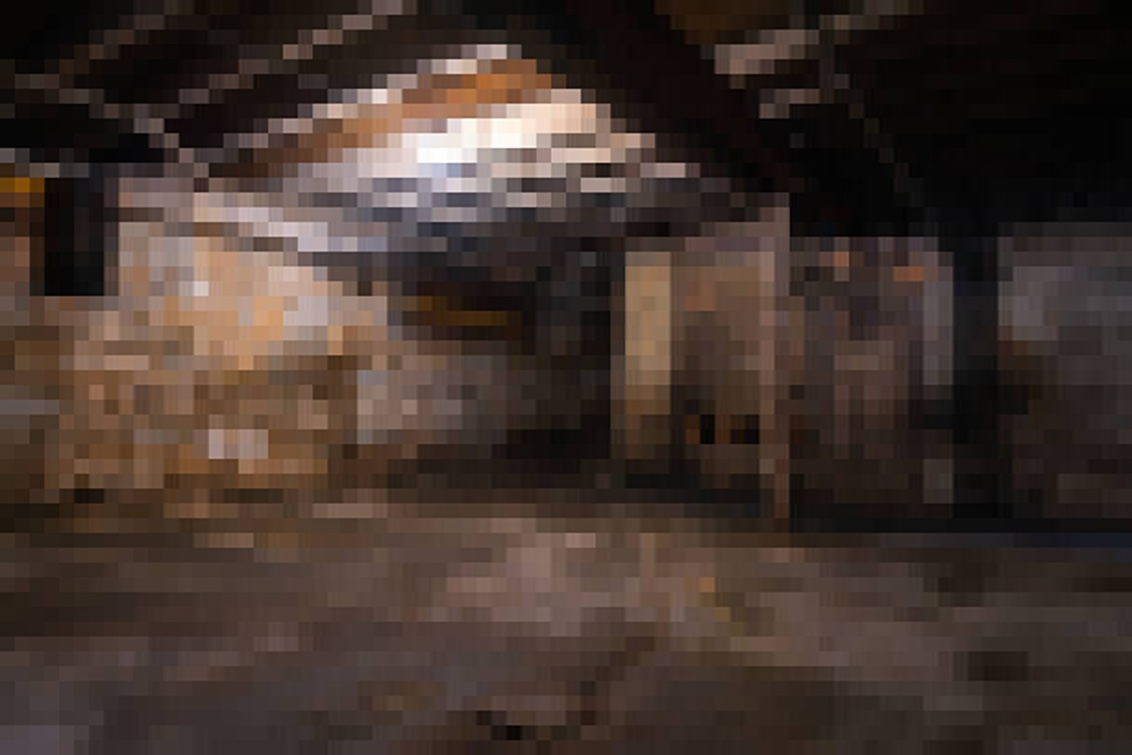
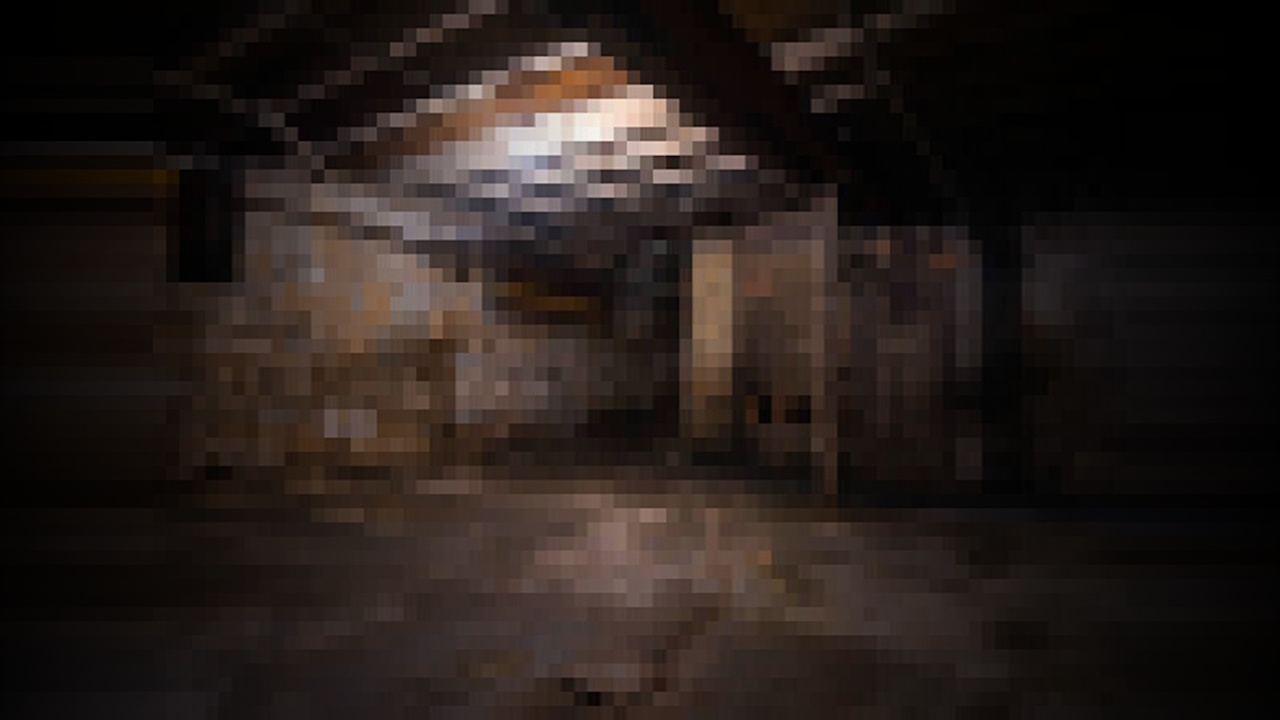
Pressing the play button now sends you to the play area (which is currently empty). Furthermore, I expanded the resolution by a tad bit to fit better alongside updating the menu background and a few more adjustments.

diff --git a/Main.py b/Main.py
@@ -4,10 +4,14 @@ from Button import Image_Button
 
 pygame.init()
 
-screen = pygame.display.set_mode((1000, 700))
+screen = pygame.display.set_mode((1280, 720))
 pygame.display.set_caption("Escape the Basement")
 menuTitle = pygame.image.load('EtBTitle.png')
+
 menuBackground = pygame.image.load('basement-2.v1.jpg')
+gameBackground = pygame.image.load('placeholder.jpg') # there will be more on this later
+
+current_background = menuBackground
 
 volume_on = pygame.image.load('volumeon.png').convert_alpha()
 volume_off = pygame.image.load('volumeoff.png').convert_alpha()
@@ -21,20 +25,22 @@ pygame.mixer.music.play(-1, 0.0, 0)
 Button_Color = ('red')
 Button_hover_color = ('blue')
 font = pygame.font.Font(None, 40)
-play_button = Button(Button_Color, 300, 400, 200, 100, 'Play', None)
-quit_button = Button(Button_Color, 500, 400, 200, 100, 'Quit', None)
+play_button = Button(Button_Color, 430, 400, 200, 100, 'Play', None)
+quit_button = Button(Button_Color, 650, 400, 200, 100, 'Quit', None)
 
-def displayMenu():
-    play_button.draw(screen, font)
-    quit_button.draw(screen, font)
+def displayMenu(gameState):
+    if gameState == "Menu":
+        play_button.draw(screen, font)
+        quit_button.draw(screen, font)
     volumeButton.draw()
     pygame.display.flip()
 
 # the screen should only be updated when it needs to be; no need to update it every frame
 def updateScreen():
     screen.fill((34, 25, 14))
-    screen.blit(menuBackground,(0,0))
-    screen.blit(menuTitle, (25, -170))
+    screen.blit(current_background,(0,0))
+    if current_background == menuBackground:
+        screen.blit(menuTitle, (150, -170))
     pygame.display.flip()
 
 updateScreen()
@@ -51,7 +57,7 @@ while running:
             running = False
 
     pygame.display.update()
-    displayMenu()
+    displayMenu(gameState)
 
     if gameState == "Menu":
         
@@ -71,6 +77,8 @@ while running:
                         current_Volume = volume_on
                 # play button
                 if play_button.is_clicked(event.pos):
+                    current_background = gameBackground
+                    updateScreen()
                     gameState = "Game"
                     #play_button.action()
                 elif quit_button.is_clicked(event.pos):
@@ -98,7 +106,25 @@ while running:
 
     elif gameState == "Game":
         # nothing at all for now
-        print("test")
+        if event.type == pygame.MOUSEBUTTONDOWN: # blatant copy and paste; we'll sort this out later
+            if mouseDown == False and event.button == 1:
+                # volume button
+                if volumeButton.is_clicked(event.pos):
+                    musicPaused = not musicPaused
+                    updateScreen()
+                    if musicPaused == True:
+                        volumeButton.new_image(volume_off)
+                        pygame.mixer.music.pause()
+                        current_Volume = volume_off
+                    else:
+                        volumeButton.new_image(volume_on)
+                        pygame.mixer.music.unpause()
+                        current_Volume = volume_on
+            
+            mouseDown = True
+        elif event.type == pygame.MOUSEBUTTONUP:
+            mouseDown = False
+
         mouse_pos = pygame.mouse.get_pos()
 
 pygame.quit()
